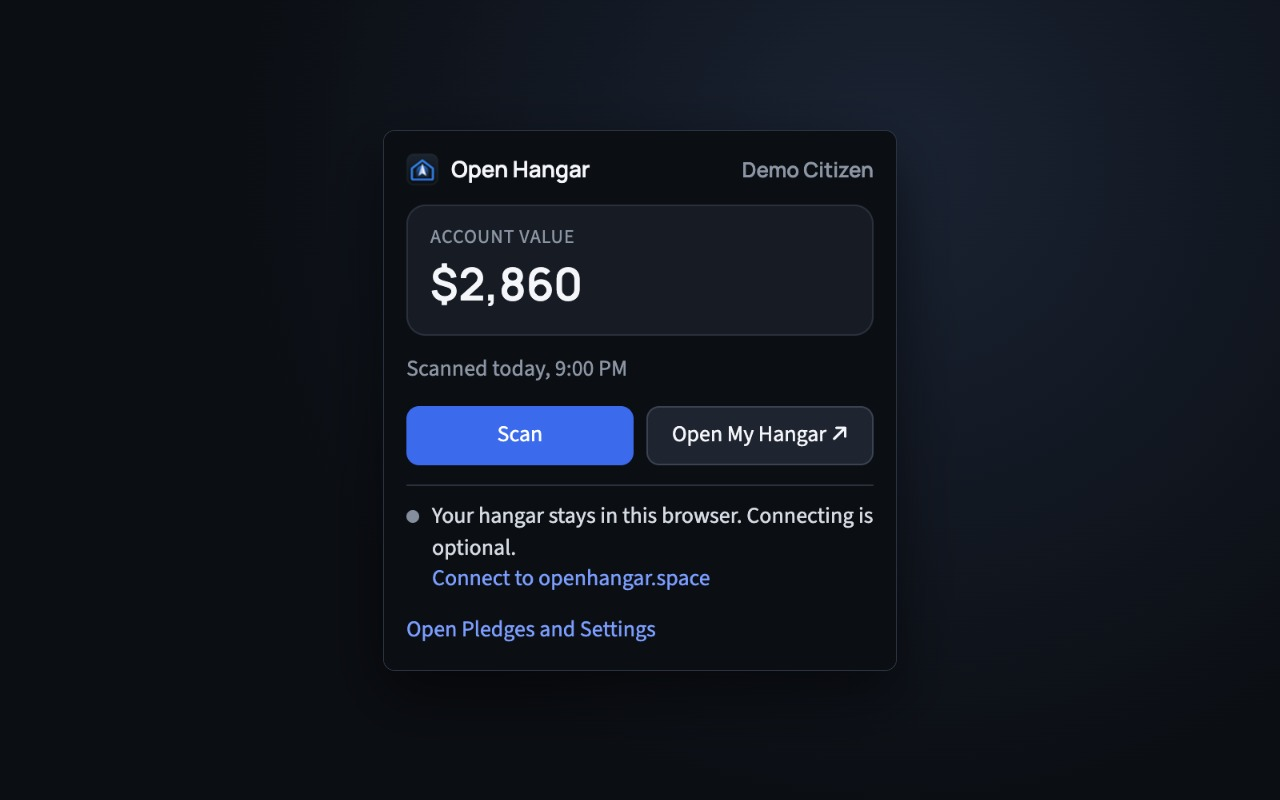
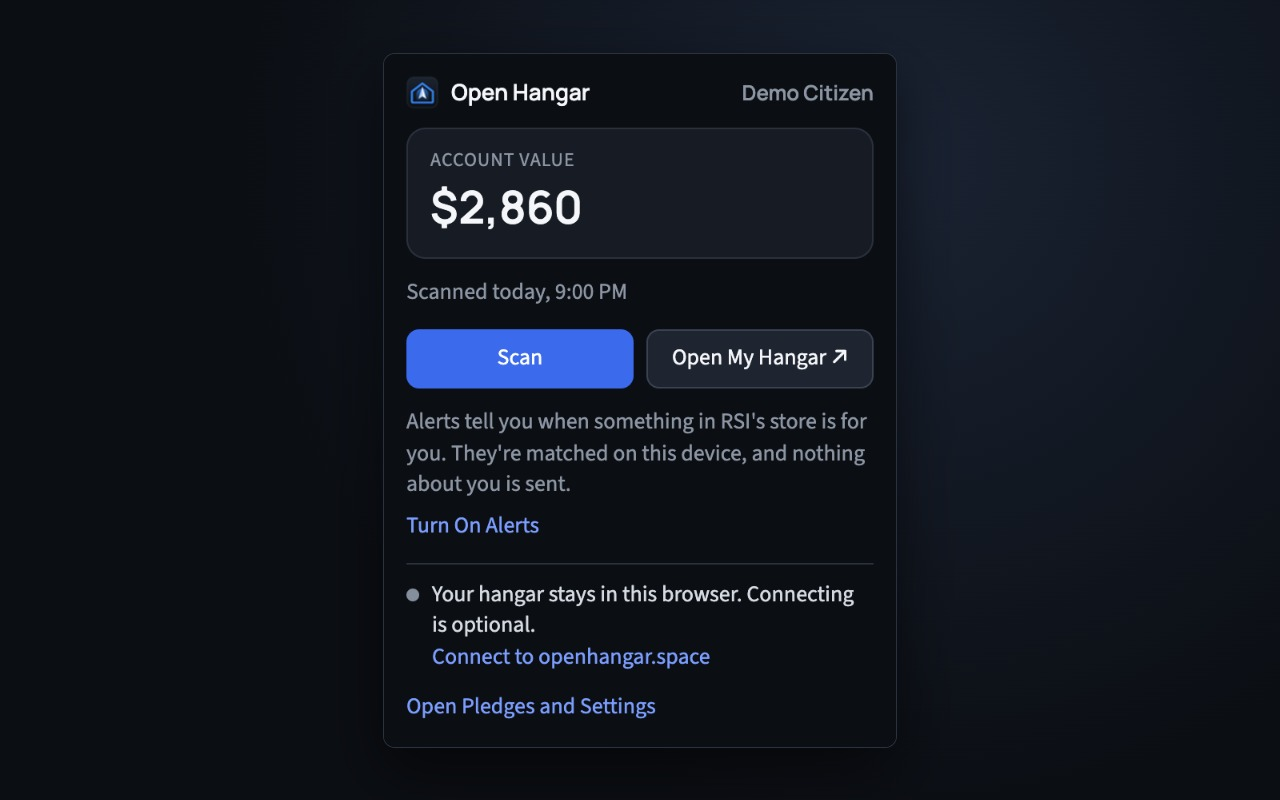
docs(store): the connector listing, summary and permission reasons
The owner-approved listing (2026-10-13): the 129-character summary in
_locales/en/messages.json (the other languages fall back to it), the new detailed
description, the alarms and notifications reasons, the connector screenshots, and
the hold note goes. The popup screenshot shows the store build, store alerts included.

diff --git a/docs/STORE.md b/docs/STORE.md
@@ -56,12 +56,14 @@ Firefox Add-ons. Work top to bottom. Items marked ✅ are ready in the repo; ⬜
 
 ## 3. Store Listing Assets
 
-- ✅ **Screenshots** (1–5 required), **1280×800** or 640×400 PNG/JPG: `docs/store-assets/screenshot-1…5-*.jpg`. Regenerate with `npm run screenshots` (real UI, fictional demo account):
-  1. Inventory (fleet gallery)
-  2. Home
-  3. Referrals page (stats + charts)
-  4. Buy-backs
-  5. Stats
+- ✅ **Screenshots** (1–5 required), **1280×800** or 640×400 PNG/JPG, from 0.3.0 the
+  connector's (real UI, fictional demo account; PNG copies beside them for Edge):
+  1. The toolbar popup: `docs/store-assets/screenshot-connector-1-popup.jpg`
+  2. The Open Hangar page (Pledges): `docs/store-assets/screenshot-connector-2-basic.jpg`
+
+  The older `screenshot-1…5-*` files (`npm run screenshots`) show the dashboard, which
+  the 0.3.0 extension doesn't have: don't upload them for 0.3.0.
+
 - ✅ **Small promo tile**: **440×280** PNG (required) — `docs/store-assets/promo-small-440x280.png`. Can be the logo on a dark
   background. (`icons/icon.svg` + the banner in `src/assets/` are starting points.)
 - ✅ (Optional) Marquee promo: 1400×560 — `docs/store-assets/promo-marquee-1400x560.png`.
@@ -116,6 +118,14 @@ _(Since 0.2.8 there is no `api.star-citizen.wiki` host permission: that public A
 sends `Access-Control-Allow-Origin: *` and we fetch it without credentials, so the
 install prompt only names robertsspaceindustries.com.)_
 
+**`alarms`** (added in 0.3.0)
+
+> Used only for store alerts, which the user turns on in the extension's settings (they're off by default). The alarm wakes the extension for a check at most every 30 minutes: it downloads one public sale file from openhangar.space (the same file for everyone, with nothing about the user in the request) and matches it on the device. Turning alerts off clears the alarm.
+
+**`notifications`** (optional, added in 0.3.0)
+
+> Optional. Requested only when the user turns store alerts on, and the user can decline: the toolbar badge and the popup's list still work without it. Used only to show a notification when an item in RSI's store newly matches the user's hangar, buy-backs or wishlist, at most three per check. Matching happens on the device, and nothing is sent. Turning alerts off removes the permission.
+
 ## 6. Listing Copy (Ready to Paste)
 
 **Single purpose:**
@@ -125,51 +135,40 @@ install prompt only names robertsspaceindustries.com.)_
 
 **Summary (≤132 chars, also the manifest `description`):**
 
-> The free Star Citizen fleet manager. Your hangar, buy-backs, values and stats in one place. Private, with optional sync.
+> Scan your Star Citizen hangar in one click, see it all on openhangar.space and get store alerts. Private, with no account needed.
+
+The other languages' `_locales/*/messages.json` have no description of their own for
+0.3.0, so every language shows this English line until new translations are approved.
 
 **Detailed description:**
 
 The store fields are plain text: paste it without the `>` quote marks and the `**` bold
 markers, with each paragraph and each • bullet on one line.
 
-> **The free Star Citizen fleet manager.**
+> **Your Star Citizen hangar, one click away.**
 >
-> Open Hangar reads what RSI already shows you (your hangar, buy-backs, balances, org
-> and referrals) and puts it all in one place you can actually use. No more clicking
-> through page after page of pledges.
+> Open Hangar reads what RSI already shows you (your pledges, buy-backs, balances and referrals) and shows it all on our hangar page, where you can actually use it. No account needed, and no more clicking through page after page of pledges.
 >
 > What you get:
-> • A clean home page: your account value, game status and events, your newest pledges
-> • Hangar value: what your ships sell for at today's store prices, next to their
-> melt value
-> • Hangar alerts: a wishlist ship on sale, a ship you own turning flight ready, and more
-> • Search your whole hangar, buy-backs and rewards from any page
-> • Melt planner: pick pledges and see what their melt value buys from your wishlist
-> • Filters for everything, plus saved views: LTI, giftable, meltable, packs, below
-> store price and more
-> • Fleet stats: cargo, crew seats, roles, and how much of your fleet is flight ready
-> • Buy-backs with direct reclaim links, and a full referrals dashboard
-> • Streamer Mode hides your money amounts for streams and screenshots
-> • History: see what changed since your last scan, and back it all up to a file
-> • Export to CSV or JSON
+> • Scan: one click reads your hangar and buy-backs from RSI, with the session you're already signed in with
+> • The toolbar popup: your Account Value, your last scan and your store alerts at a glance
+> • Your full hangar at hangar.openhangar.space: pledges, buy-backs, fleet stats, values, referrals and more, read from this browser, with no account
+> • Store alerts (optional): a badge and a notification when a ship in your buy-backs is back in the store, or a ship you own gets a new paint, a warbond edition or a limited-time sale. Matched on your device
+> • Add to RSI Cart and Send to RSI Cart: put the upgrades and store items you pick in your RSI cart in one click. You always check out on RSI yourself
+> • The Open Hangar page: your pledges and buy-backs with search, totals and CSV, a JSON backup, and your settings
 >
-> **Your fleet on any device (optional):** connect a free account at openhangar.space
-> and your hangar syncs after each scan, so you can check it from your phone.
-> Disconnect any time.
+> **Open beta:** this is Open Hangar 0.3, and it's all yours now. Syncing your hangar to openhangar.space opens to everyone at our official launch on November 10.
 >
-> **Private by design:** Open Hangar runs in your browser, using the RSI session you're
-> already signed in with. It never asks for your password. Nothing about you is sent
-> to us unless you connect.
+> **Private by design:** Open Hangar runs in your browser, using the RSI session you're already signed in with. It never asks for your password. Your hangar stays on your device, and nothing about you is sent to us unless you connect.
 >
 > The extension is source available on GitHub. Ideas and bug reports are always welcome.
 >
 > Unofficial and fan-made. Not affiliated with Cloud Imperium Games or RSI. Fly safe, o7.
 
-**Hold 0.3.0 until the store build has sync.** The sync parts (the "Your fleet on any
-device" paragraph, and "with optional sync" in the summary, which is also the manifest
-description in `_locales/en/messages.json`) are only true of a store build with sync in it.
-Today the store build has no sync: the `sync` flag is off for it and no sync site is built in
-([FLAGS.md](FLAGS.md)). Don't cut 0.3.0 for the stores or paste this copy until it does.
+**If Send to RSI Cart isn't open to everyone on openhangar.space's store when the listing
+goes up,** use this cart bullet instead, and switch to the one above once it is:
+
+> • Add to RSI Cart: put a ship upgrade (CCU) in your RSI cart in one click. You always check out on RSI yourself
 
 ## 7. Submit & Review
 
